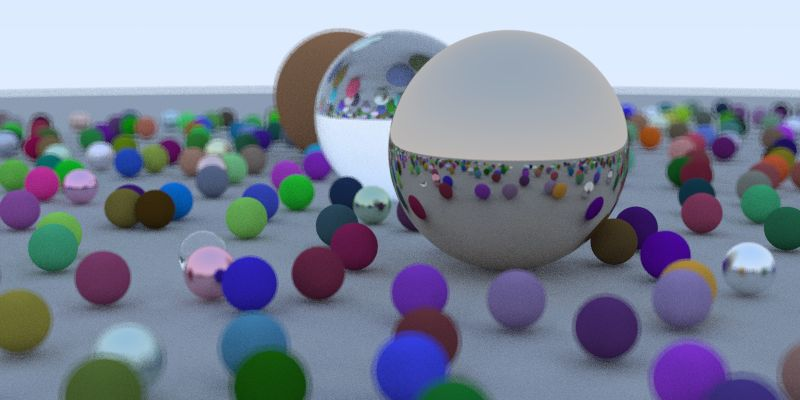
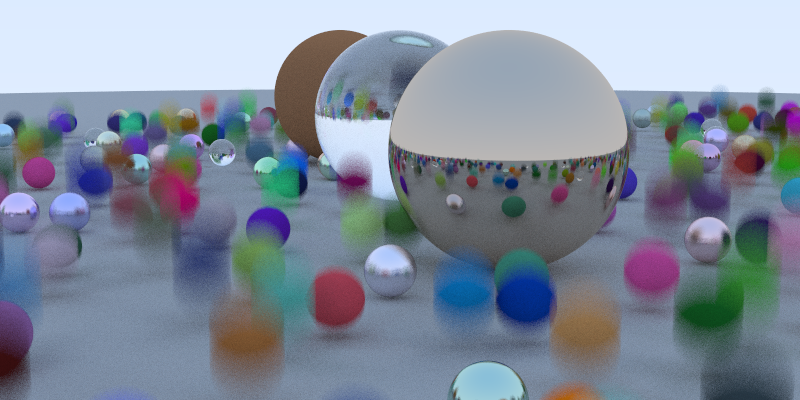
Add motion blur. Add CameraConfiguration. Use dyn.

diff --git a/src/main.rs b/src/main.rs
@@ -1,31 +1,27 @@
 extern crate image;
 extern crate num_cpus;
-extern crate rand;
 extern crate threadpool;
 
 use image::{ImageBuffer, Pixel, Rgb};
 use std::sync::{mpsc::channel, Arc, Mutex};
 use threadpool::ThreadPool;
 
-use rand::Rng;
 use std::vec::Vec;
 
 use crate::camera::*;
 use crate::material::*;
 use crate::model::*;
+use crate::random::*;
 use crate::vec::*;
 
 mod camera;
 mod material;
 mod model;
+mod random;
 mod vec;
 
-fn drand48() -> f32 {
-    rand::thread_rng().gen_range(0.0, 1.0)
-}
-
 #[allow(dead_code)]
-fn sphere_scene() -> Vec<Box<Model + Send>> {
+fn sphere_scene() -> Vec<Box<dyn Model + Send>> {
     vec![
         Box::new(Sphere::new(
             Vec3(0.0, 0.0, -1.0),
@@ -54,12 +50,12 @@ fn sphere_scene() -> Vec<Box<Model + Send>> {
         )),
     ]
     .into_iter()
-    .map(|s| s as Box<Model + Send>)
+    .map(|s| s as Box<dyn Model + Send>)
     .collect()
 }
 
-fn random_scene() -> Vec<Box<Model + Send>> {
-    let mut models = Vec::new();
+fn random_scene() -> Vec<Box<dyn Model + Send>> {
+    let mut models: Vec<Box<dyn Model + Send>> = Vec::new();
 
     models.push(Box::new(Sphere::new(
         Vec3(0.0, -1000.0, 0.0),
@@ -74,14 +70,19 @@ fn random_scene() -> Vec<Box<Model + Send>> {
             if (center - Vec3(4.0, 0.2, 0.0)).length() > 0.9 {
                 if choose_mat < 0.8 {
                     // diffuse
-                    models.push(Box::new(Sphere::new(
-                        center,
-                        0.2,
-                        Box::new(Lambertian::new(Vec3(
-                            drand48() * drand48(),
-                            drand48() * drand48(),
-                            drand48() * drand48(),
-                        ))),
+                    models.push(Box::new(MovingSphere::new(
+                        0.0,
+                        1.0,
+                        center + Vec3(0.0, 0.5 * drand48(), 0.0),
+                        Sphere::new(
+                            center,
+                            0.2,
+                            Box::new(Lambertian::new(Vec3(
+                                drand48() * drand48(),
+                                drand48() * drand48(),
+                                drand48() * drand48(),
+                            ))),
+                        ),
                     )));
                 } else if choose_mat < 0.95 {
                     // metal
@@ -122,10 +123,13 @@ fn random_scene() -> Vec<Box<Model + Send>> {
         Box::new(Metal::new(Vec3(0.7, 0.6, 0.5), 0.0)),
     )));
 
-    models.into_iter().map(|s| s as Box<Model + Send>).collect()
+    models
+        .into_iter()
+        .map(|s| s as Box<dyn Model + Send>)
+        .collect()
 }
 
-fn color(r: Ray, world: &Vec<Box<Model + Send>>, depth: i32) -> Vec3 {
+fn color(r: Ray, world: &[Box<dyn Model + Send>], depth: i32) -> Vec3 {
     const WHITE: Vec3 = Vec3(1.0, 1.0, 1.0);
     const SKY_BLUE: Vec3 = Vec3(0.5, 0.7, 1.0);
 
@@ -153,16 +157,18 @@ fn main() {
     let look_from = Vec3(13.0, 2.0, 3.0);
     let look_at = Vec3(0.0, 0.0, 0.0);
     let focus_dist = 10.0;
-    let aperture = 0.1;
-    let camera = Camera::new(
+    let aperture = 0.0;
+    let camera = Camera::new(CameraConfiguration {
         look_from,
         look_at,
-        Vec3(0.0, 1.0, 0.0),
-        20.0,
-        width as f32 / height as f32,
+        up: Vec3(0.0, 1.0, 0.0),
+        vertical_fov: 20.0,
+        aspect: width as f32 / height as f32,
         aperture,
         focus_dist,
-    );
+        shutter_opened_time: 0.0,
+        shutter_closed_time: 1.0,
+    });
 
     let mut img = ImageBuffer::new(width, height);
     let pool = ThreadPool::new(num_cpus::get());
@@ -174,8 +180,8 @@ fn main() {
             for x in 0..width {
                 let mut blended_color = Vec3(0.0, 0.0, 0.0);
                 for _ in 0..samples_per_pixel {
-                    let u = (x as f32 + rand::thread_rng().gen_range(0.0, 1.0)) / width as f32;
-                    let v = (y as f32 + rand::thread_rng().gen_range(0.0, 1.0)) / height as f32;
+                    let u = (x as f32 + drand48()) / width as f32;
+                    let v = (y as f32 + drand48()) / height as f32;
                     let r = camera.get_ray(u, v);
                     let world = world.lock().unwrap();
                     blended_color = blended_color + color(r, &*world, 0);

diff --git a/src/model.rs b/src/model.rs
@@ -6,7 +6,7 @@ pub struct Hit<'a> {
     pub t: f32,
     pub p: Vec3,
     pub normal: Vec3,
-    pub material: &'a Material,
+    pub material: &'a dyn Material,
 }
 
 pub struct TimeInterval {
@@ -24,14 +24,73 @@ pub trait Model {
     fn hit(&self, r: &Ray, interval: &TimeInterval) -> Option<Hit>;
 }
 
+pub struct MovingSphere {
+    pub start_time: f32,
+    pub end_time: f32,
+    pub end_center: Vec3,
+    pub geometry: Sphere,
+}
+
+impl MovingSphere {
+    pub fn new(start_time: f32, end_time: f32, end_center: Vec3, geometry: Sphere) -> MovingSphere {
+        MovingSphere {
+            start_time,
+            end_time,
+            end_center,
+            geometry,
+        }
+    }
+
+    pub fn center(&self, time: f32) -> Vec3 {
+        self.geometry.center
+            + ((time - self.start_time) / (self.end_time - self.start_time))
+                * (self.end_center - self.geometry.center)
+    }
+}
+
+impl Model for MovingSphere {
+    fn hit(&self, r: &Ray, interval: &TimeInterval) -> Option<Hit> {
+        let oc = r.origin - self.center(r.time);
+        let a = r.direction.dot(r.direction);
+        let b = oc.dot(r.direction);
+        let c = oc.dot(oc) - self.geometry.radius.powi(2);
+        let discriminant = b.powi(2) - a * c;
+        if discriminant > 0.0 {
+            let mut temp = (-b - discriminant.sqrt()) / a;
+            if temp > interval.min && temp < interval.max {
+                let point = r.point_at_parameter(temp);
+                let normal = (point - self.center(r.time)) / self.geometry.radius;
+                return Some(Hit {
+                    t: temp,
+                    p: point,
+                    normal,
+                    material: &*self.geometry.material,
+                });
+            }
+            temp = (-b + discriminant.sqrt()) / a;
+            if temp > interval.min && temp < interval.max {
+                let point = r.point_at_parameter(temp);
+                let normal = (point - self.center(r.time)) / self.geometry.radius;
+                return Some(Hit {
+                    t: temp,
+                    p: point,
+                    normal,
+                    material: &*self.geometry.material,
+                });
+            }
+        }
+        None
+    }
+}
+
 pub struct Sphere {
     pub center: Vec3,
     pub radius: f32,
-    pub material: Box<Material + Send>,
+    pub material: Box<dyn Material + Send>,
 }
 
 impl Sphere {
-    pub fn new(center: Vec3, radius: f32, material: Box<Material + Send>) -> Sphere {
+    pub fn new(center: Vec3, radius: f32, material: Box<dyn Material + Send>) -> Sphere {
         Sphere {
             center,
             radius,
@@ -75,7 +134,7 @@ impl Model for Sphere {
     }
 }
 
-impl Model for Vec<Box<Model + Send>> {
+impl Model for [Box<dyn Model + Send>] {
     fn hit(&self, r: &Ray, interval: &TimeInterval) -> Option<Hit> {
         let mut closest = None;
         for child in self {

diff --git a/src/camera.rs b/src/camera.rs
@@ -1,3 +1,4 @@
+use crate::random::*;
 use crate::vec::*;
 
 #[derive(Clone, Copy, Debug)]
@@ -10,44 +11,57 @@ pub struct Camera {
     pub u: Vec3,
     pub v: Vec3,
     pub w: Vec3,
+    pub shutter_opened_time: f32,
+    pub shutter_closed_time: f32,
+}
+
+#[derive(Clone, Copy, Debug)]
+pub struct CameraConfiguration {
+    pub look_from: Vec3,
+    pub look_at: Vec3,
+    pub up: Vec3,
+    pub vertical_fov: f32,
+    pub aspect: f32,
+    pub aperture: f32,
+    pub focus_dist: f32,
+    pub shutter_opened_time: f32,
+    pub shutter_closed_time: f32,
 }
 
 impl Camera {
-    pub fn new(
-        look_from: Vec3,
-        look_at: Vec3,
-        up: Vec3,
-        vertical_fov: f32,
-        aspect: f32,
-        aperture: f32,
-        focus_dist: f32,
-    ) -> Camera {
-        let theta = vertical_fov * std::f32::consts::PI / 180.0;
+    pub fn new(configuration: CameraConfiguration) -> Camera {
+        let theta = configuration.vertical_fov * std::f32::consts::PI / 180.0;
         let half_height = (theta / 2.0).tan();
-        let half_width = aspect * half_height;
+        let half_width = configuration.aspect * half_height;
 
-        let w = (look_from - look_at).as_unit_vector();
-        let u = up.cross(w).as_unit_vector();
+        let w = (configuration.look_from - configuration.look_at).as_unit_vector();
+        let u = configuration.up.cross(w).as_unit_vector();
         let v = w.cross(u);
 
         Camera {
-            lower_left_corner: look_from - focus_dist * (half_width * u + half_height * v + w),
-            horizontal: 2.0 * half_width * focus_dist * u,
-            vertical: 2.0 * half_height * focus_dist * v,
-            origin: look_from,
-            lens_radius: aperture / 2.0,
+            lower_left_corner: configuration.look_from
+                - configuration.focus_dist * (half_width * u + half_height * v + w),
+            horizontal: 2.0 * half_width * configuration.focus_dist * u,
+            vertical: 2.0 * half_height * configuration.focus_dist * v,
+            origin: configuration.look_from,
+            lens_radius: configuration.aperture / 2.0,
             u,
             v,
             w,
+            shutter_opened_time: configuration.shutter_opened_time,
+            shutter_closed_time: configuration.shutter_closed_time,
         }
     }
 
     pub fn get_ray(&self, s: f32, t: f32) -> Ray {
         let rd = self.lens_radius * crate::material::random_in_unit_disk();
         let offset = self.u * rd.x() + self.v * rd.y();
+        let time = self.shutter_opened_time
+            + drand48() * (self.shutter_closed_time - self.shutter_opened_time);
         Ray::new(
             self.origin + offset,
             self.lower_left_corner + s * self.horizontal + t * self.vertical - self.origin - offset,
+            time,
         )
     }
 }

diff --git a/src/material.rs b/src/material.rs
@@ -55,11 +55,11 @@ impl Lambertian {
 }
 
 impl Material for Lambertian {
-    fn scatter(&self, _r_in: &Ray, hit: &Hit) -> Scatter {
+    fn scatter(&self, r_in: &Ray, hit: &Hit) -> Scatter {
         let target = hit.p + hit.normal + random_in_unit_sphere();
         Scatter {
             color: self.albedo,
-            ray: Some(Ray::new(hit.p, target - hit.p)),
+            ray: Some(Ray::new(hit.p, target - hit.p, r_in.time)),
         }
     }
 }
@@ -81,7 +81,11 @@ impl Metal {
 impl Material for Metal {
     fn scatter(&self, r_in: &Ray, hit: &Hit) -> Scatter {
         let reflected = r_in.direction.as_unit_vector().reflect(hit.normal);
-        let scattered = Ray::new(hit.p, reflected + self.fuzz * random_in_unit_sphere());
+        let scattered = Ray::new(
+            hit.p,
+            reflected + self.fuzz * random_in_unit_sphere(),
+            r_in.time,
+        );
         Scatter {
             color: self.albedo,
             ray: if scattered.direction.dot(hit.normal) > 0.0 {
@@ -131,9 +135,9 @@ impl Material for Dielectric {
         };
 
         let ray = if rand::thread_rng().gen_range(0.0, 1.0) < reflect_prob {
-            Ray::new(hit.p, reflected)
+            Ray::new(hit.p, reflected, r_in.time)
         } else {
-            Ray::new(hit.p, refracted.unwrap())
+            Ray::new(hit.p, refracted.unwrap(), r_in.time)
         };
 
         Scatter {

diff --git a/src/vec.rs b/src/vec.rs
@@ -105,11 +105,16 @@ impl Div<f32> for Vec3 {
 pub struct Ray {
     pub origin: Vec3,
     pub direction: Vec3,
+    pub time: f32,
 }
 
 impl Ray {
-    pub fn new(origin: Vec3, direction: Vec3) -> Ray {
-        Ray { origin, direction }
+    pub fn new(origin: Vec3, direction: Vec3, time: f32) -> Ray {
+        Ray {
+            origin,
+            direction,
+            time,
+        }
     }
 
     pub fn point_at_parameter(&self, t: f32) -> Vec3 {

diff --git a/src/random.rs b/src/random.rs
@@ -1,0 +1,7 @@
+extern crate rand;
+
+use rand::Rng;
+
+pub fn drand48() -> f32 {
+    rand::thread_rng().gen_range(0.0, 1.0)
+}
